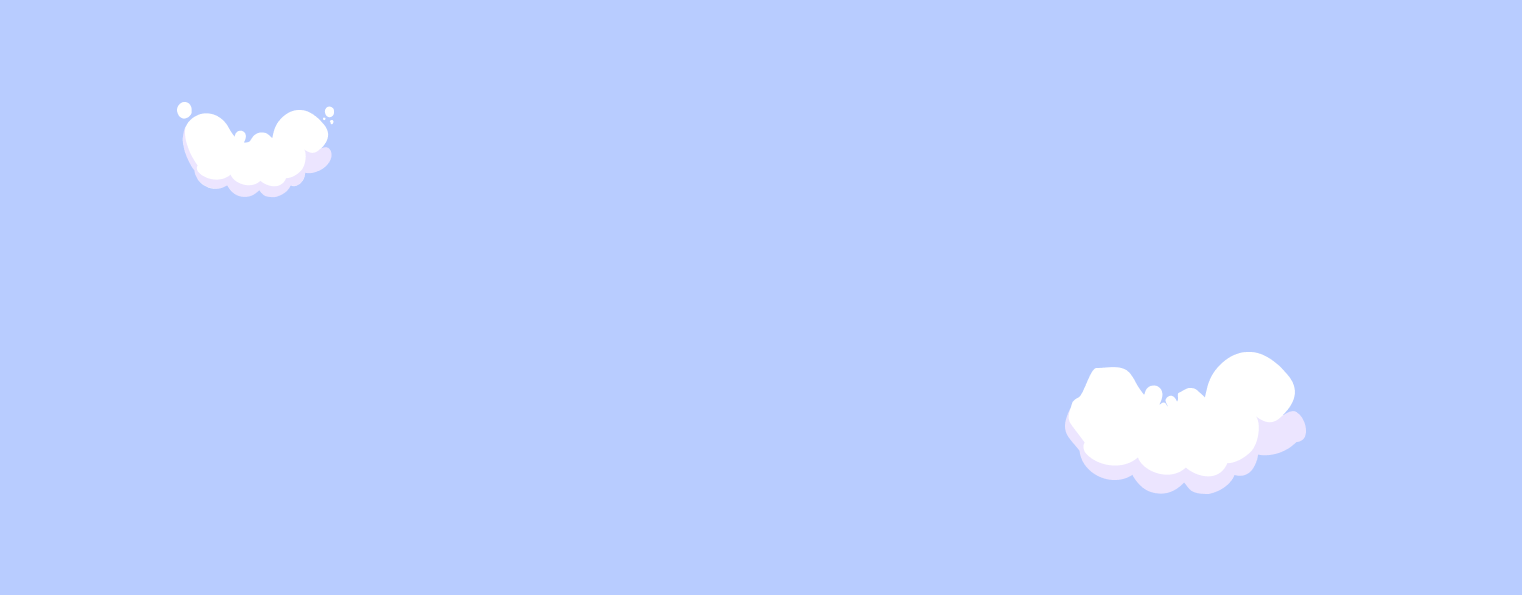
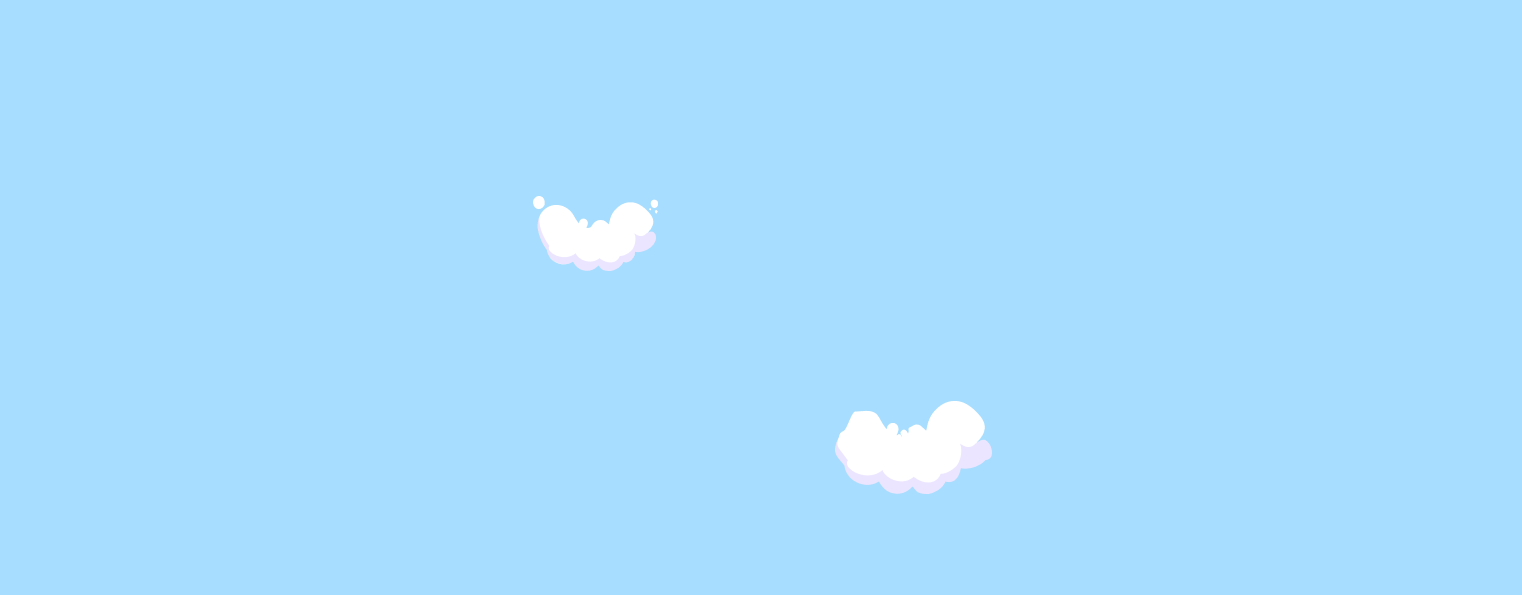
fixed bg

diff --git a/pages/_app.js b/pages/_app.js
@@ -29,7 +29,7 @@ function MyApp({ Component, pageProps }) {
     //     showHeader = false
     // }
     return (
-        <main className={poppins.className} style={{ background: '#b8ccff' }}>
+        <main className={poppins.className} style={{ background: '#a7ddfe' }}>
             <Script
                 strategy="lazyOnload"
                 src={`https://www.googletagmanager.com/gtag/js?id=${process.env.NEXT_PUBLIC_GOOGLE_ANALYTICS}`}
